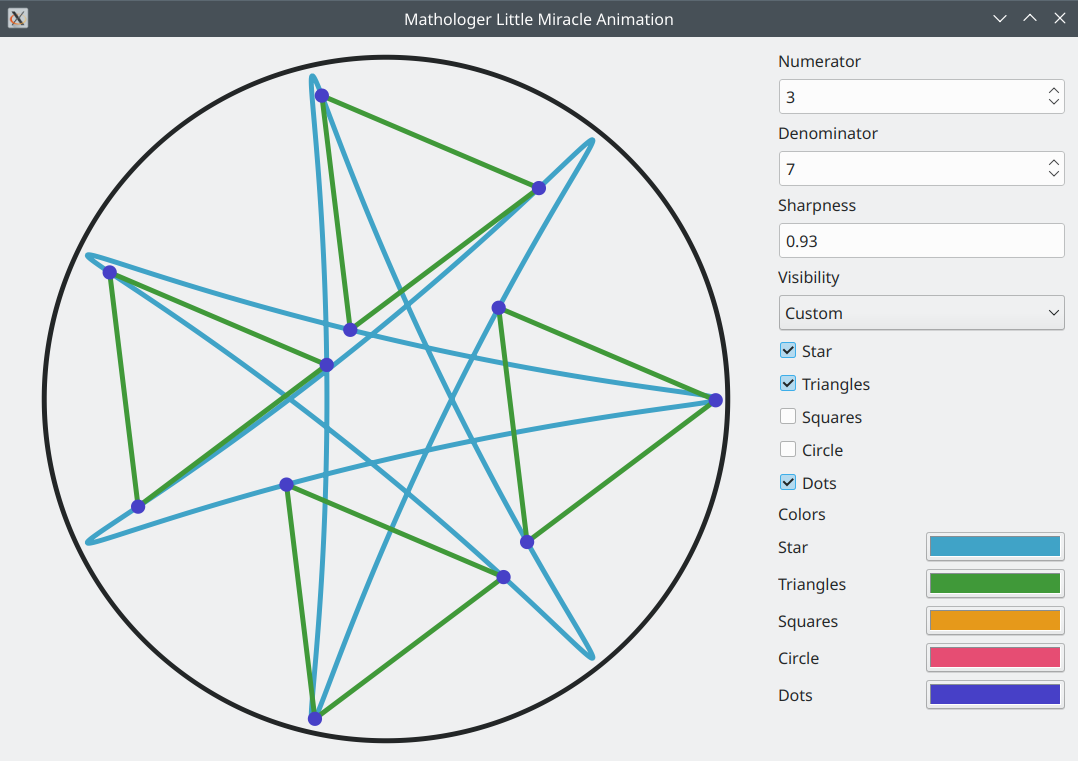
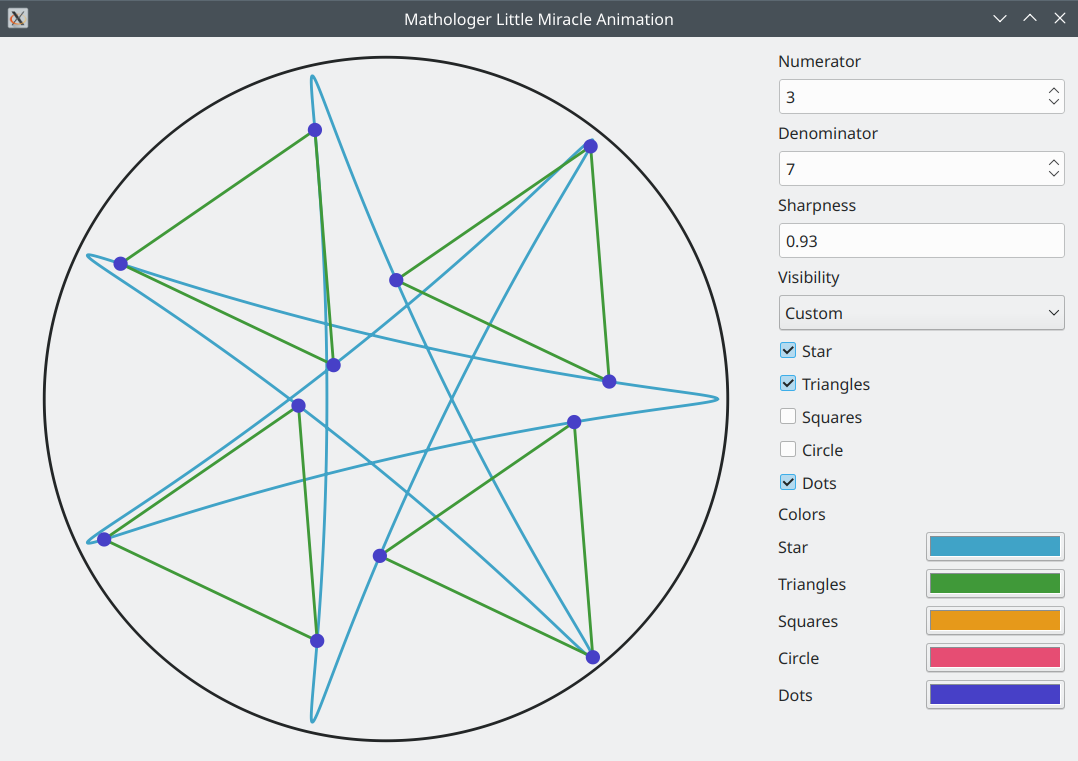
decrease line width

diff --git a/star_widget.cpp b/star_widget.cpp
@@ -61,7 +61,7 @@ void star_widget::paintEvent(QPaintEvent* event)
         p.scale(scale, -scale);
         {
             QPen pen = p.pen();
-            double w = 0.007;
+            double w = 0.004;
             if (sharpness > 1.)
                 w *= (1 + sharpness) / 2;
             pen.setWidthF(w);
